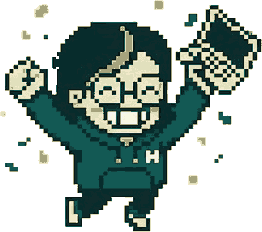
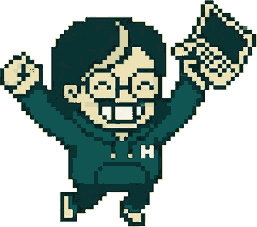
feat(mascota): parpadeo, ojos que se mueven al pensar y confeti cayendo al celebrar (0.26.0)

diff --git a/src/app/shared/components/mascota/mascota.ts b/src/app/shared/components/mascota/mascota.ts
@@ -1,22 +1,33 @@
-import { ChangeDetectionStrategy, Component, ElementRef, afterNextRender, effect, input, signal, viewChild } from '@angular/core';
+import { ChangeDetectionStrategy, Component, ElementRef, Injector, afterNextRender, computed, effect, inject, input, signal, viewChild } from '@angular/core';
 import gsap from 'gsap';
 
-/** Tamaño de cada pose en `public/avatar/<pose>.webp` (px nativos) y escala de pantalla (0.5 = pixeles de 4 px). */
-const POSES = { saluda: [190, 215], senala: [236, 215], piensa: [189, 206], celebra: [262, 232] } as const;
+/** Tamaño de cada cuadro en `public/avatar/<cuadro>.webp` (px nativos) y escala de pantalla (0.5 = pixeles de 4 px). */
+const CUADROS = {
+  saluda: [190, 215], saluda_p: [190, 215],
+  senala: [236, 215], senala_p: [236, 215],
+  piensa: [189, 206], piensa_2: [189, 206],
+  celebra: [257, 227],
+} as const;
 const ESCALA = 0.5;
-export type Pose = keyof typeof POSES;
+/** Hojas de confeti (`confeti1..8.webp`); cada celebración suelta 3 distintas. */
+const HOJAS = 8;
+export type Pose = 'saluda' | 'senala' | 'piensa' | 'celebra';
 
 /**
  * Mascota con globo de texto: entra con un salto cuando se ve en pantalla, cambia de pose con un brinco
- * y "escribe" lo que dice. Sin movimiento si el usuario lo reduce (el texto aparece completo).
+ * y "escribe" lo que dice. Parpadea al saludar y señalar, mueve los ojos al pensar y celebra con confeti
+ * cayendo. Sin movimiento si el usuario lo reduce (el texto aparece completo).
  */
 @Component({
   selector: 'app-mascota',
   template: `
-    <div class="mascota">
+    <div class="mascota" #caja>
+      @for (n of confeti(); track n) {
+        <img class="confeti" [src]="'avatar/confeti' + n + '.webp'" alt="" />
+      }
       <div class="pj" #pj>
-        @for (p of poses; track p.id) {
-          <img [src]="'avatar/' + p.id + '.webp'" alt="" [style.width.px]="p.w" [style.height.px]="p.h" [class.visible]="p.id === pose()" />
+        @for (p of cuadros; track p.id) {
+          <img [src]="'avatar/' + p.id + '.webp'" alt="" [style.width.px]="p.w" [style.height.px]="p.h" [class.visible]="p.id === cuadro()" />
         }
       </div>
       <i class="sombra" #sombra></i>
@@ -30,7 +41,14 @@ export class Mascota {
   pose = input.required<Pose>();
   texto = input('');
 
-  readonly poses = (Object.entries(POSES) as [Pose, readonly [number, number]][]).map(([id, [w, h]]) => ({ id, w: w * ESCALA, h: h * ESCALA }));
+  readonly cuadros = Object.entries(CUADROS).map(([id, [w, h]]) => ({ id, w: w * ESCALA, h: h * ESCALA }));
+  /** Variante del cuadro: '' normal, '_p' ojos cerrados (parpadeo), '_2' ojos mirando a otro lado (pensando). */
+  private variante = signal('');
+  cuadro = computed(() => this.pose() + this.variante());
+  confeti = signal<number[]>([]);
+  private injector = inject(Injector);
+  private caja = viewChild.required<ElementRef<HTMLElement>>('caja');
+  private ciclo?: gsap.core.Tween;
   private pj = viewChild.required<ElementRef<HTMLElement>>('pj');
   private sombra = viewChild.required<ElementRef<HTMLElement>>('sombra');
   private dicho = viewChild.required<ElementRef<HTMLElement>>('dicho');
@@ -61,6 +79,7 @@ export class Mascota {
       const p = this.pose();
       if (this.visto() && this.previa && p !== this.previa) this.brinco();
       this.previa = p;
+      if (this.visto()) { this.parpadear(p); if (p === 'celebra') this.lluvia(); }
     });
   }
 
@@ -79,6 +98,37 @@ export class Mascota {
       .to(pj, { y: 0, scaleY: 0.9, duration: 0.12, ease: 'power2.in' })
       .to(pj, { scaleY: 1, duration: 0.12, ease: 'back.out(3)' });
     gsap.fromTo(this.sombra().nativeElement, { scaleX: 1 }, { scaleX: 0.6, duration: 0.14, yoyo: true, repeat: 1, ease: 'power1.out' });
+  }
+
+  /** Saluda/señala: parpadeo ocasional. Piensa: los ojos van y vienen. Celebra: sin variante. */
+  private parpadear(p: Pose) {
+    this.ciclo?.kill();
+    this.variante.set('');
+    if (this.reducido || p === 'celebra') return;
+    const [marca, abierto, cerrado] = p === 'piensa' ? (['_2', 0.4, 0.5] as const) : (['_p', 2.5, 0.13] as const);
+    const alterna = () => {
+      this.variante.set(marca);
+      this.ciclo = gsap.delayedCall(cerrado + Math.random() * (p === 'piensa' ? 0.4 : 0), () => {
+        this.variante.set('');
+        this.ciclo = gsap.delayedCall(abierto + Math.random() * (p === 'piensa' ? 0.4 : 2.5), alterna);
+      });
+    };
+    this.ciclo = gsap.delayedCall(p === 'piensa' ? 0.35 : 1.5 + Math.random() * 2, alterna);
+  }
+
+  /** Tres hojas de confeti caen detrás de ella a distinta velocidad y se desvanecen; luego se quitan. */
+  private lluvia() {
+    if (this.reducido) return;
+    const hojas = [...Array(HOJAS).keys()].map((i) => i + 1).sort(() => Math.random() - 0.5).slice(0, 3);
+    this.confeti.set(hojas);
+    afterNextRender(() => {
+      const imgs = this.caja().nativeElement.querySelectorAll<HTMLElement>('.confeti');
+      gsap.fromTo(imgs, { y: -100, opacity: 1 }, {
+        y: 90, duration: (i: number) => 1.5 + i * 0.4, ease: 'none', stagger: 0.12,
+        onComplete: () => this.confeti.set([]),
+      });
+      gsap.to(imgs, { opacity: 0, delay: 1.3, duration: 1, stagger: 0.25 });
+    }, { injector: this.injector });
   }
 
   private escribir(t: string) {

diff --git a/src/app/shared/components/mascota/mascota.css b/src/app/shared/components/mascota/mascota.css
@@ -1,9 +1,10 @@
 :host { display: flex; align-items: flex-end; gap: 0.9rem; }
 
 .mascota { position: relative; flex: none; width: 131px; height: 124px; animation: respira 1.6s steps(1) infinite; }
-.pj { position: absolute; inset: 0 0 8px; transform-origin: bottom center; }
+.pj { z-index: 1; position: absolute; inset: 0 0 8px; transform-origin: bottom center; }
 .pj img { position: absolute; bottom: 0; left: 50%; translate: -50% 0; image-rendering: pixelated; opacity: 0; }
 .pj img.visible { opacity: 1; }
+.confeti { position: absolute; left: 50%; top: -30px; width: calc(222px * 0.8); margin-left: calc(222px * -0.4); image-rendering: pixelated; pointer-events: none; opacity: 0; }
 .sombra { position: absolute; bottom: 0; left: 50%; width: 70px; height: 8px; margin-left: -35px; border-radius: 50%; background: color-mix(in srgb, var(--night) 25%, transparent); }
 @keyframes respira { 50% { transform: translateY(-2px); } }
 

diff --git a/src/app/modules/calculator/calculator.ts b/src/app/modules/calculator/calculator.ts
@@ -196,8 +196,8 @@ export class Calculator {
     this.poseMascota.set('piensa');
     this.tPose = setTimeout(() => {
       this.poseMascota.set(id === 'unico' ? 'senala' : 'celebra');
-      this.tPose = setTimeout(() => this.poseMascota.set('senala'), 1800);
-    }, 700);
+      this.tPose = setTimeout(() => this.poseMascota.set('senala'), 2600);
+    }, 900);
   }
   /** "Ver qué incluye" desplegado; se cierra al cambiar de opción o de respuestas. */
   abierto = signal(false);
